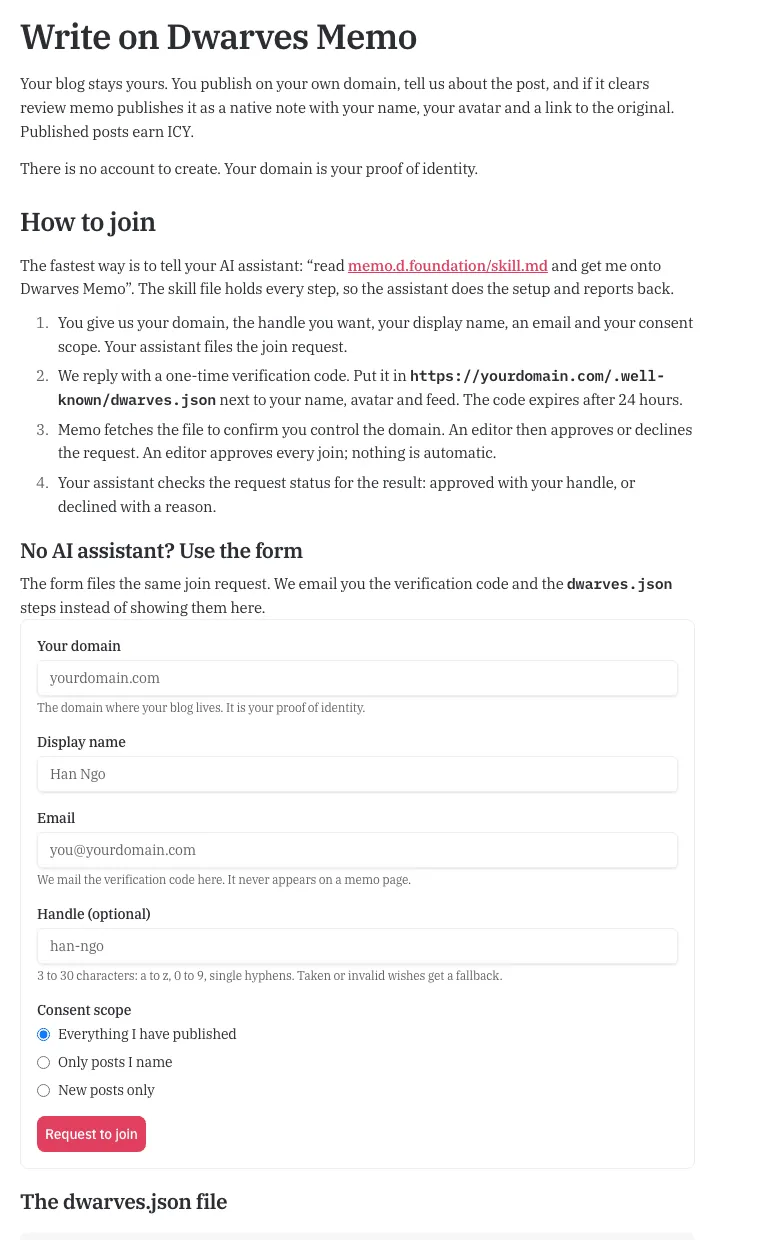
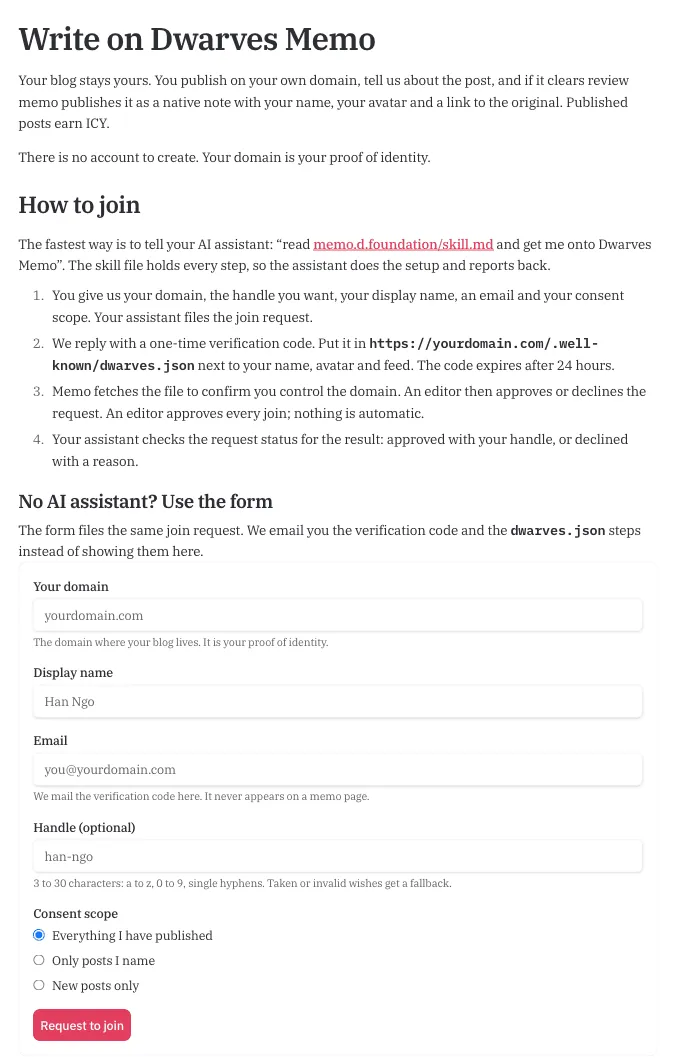
docs(reports): refresh guest-writer captures after live fixes
Re-captured the join page and guest note, added the live Rewards section, dropped the fixed header and word-count notes, and noted that the formatter skips guest notes.

Changed region(s): [[0.0309, 0.0, 0.9574, 0.9962], [0.4015, 0.7472, 0.6485, 0.8406], [0.3706, 0.7472, 0.4015, 0.7783]]

diff --git a/reports/shipped/memo-guest-writers.md b/reports/shipped/memo-guest-writers.md
@@ -137,7 +137,7 @@ An agent judged the wrong text with full confidence. The only thing between that
 
 ## What a published guest note looks like
 
-When an editor approves, a small publisher step converts the stored HTML to Markdown, builds the frontmatter, and has the Dwarves ops bot commit the note to the memo vault. From that commit on, the guest note ships through the same publish chain as every native note, and it is live about six minutes later.
+When an editor approves, a small publisher step converts the stored HTML to Markdown, builds the frontmatter, and has the Dwarves ops bot commit the note to the memo vault. The converter keeps only the post's `<article>` or `<main>`, so the blog's own header and navigation stay behind. From that commit on, the guest note ships through the same publish chain as every native note, and it is live about six minutes later. The vault's formatting bot skips guest notes, so the body stays as the writer wrote it.
 
 The frontmatter adds the fields only a mirrored post needs, and the sidebar reads them:
 
@@ -159,8 +159,6 @@ _Fig. 7: The live guest note at memo.d.foundation/essays/designing-out-snap-frau
 
 The old guest URL keeps working. A request for `/writers/truonghan.com/designing-out-snap-fraud` answers `301` to `/essays/designing-out-snap-fraud`, through the same redirect map memo uses for every moved note.
 
-The capture also shows what is still rough. The converter carries the blog's own header into the note body, so the writer's name, the site navigation and a second title appear above the post. The stats panel reads 39,703 words for a post its writer describes as about 8,800 words. Both are conversion artifacts to fix before more writers arrive.
-
 On the contributor page, a guest note lists beside the writer's other notes. Here the writer is also a long-time Dwarves contributor, so the domain links to the existing native handle and the guest note appears in that timeline. A writer with no native history gets a contributor page of their own, with a guest badge and the verified domain.
 
 ![](assets/memo-guest-writers-shot-contrib.png)
@@ -180,8 +178,13 @@ Every post memo publishes earns its writer between 5 and 20 ICY, the Dwarves com
 | Audit          | Every set or change records who, when, old value, new value and reason |
 | Featured posts | A filter and a hint, never a multiplier                                |
 | Conversion     | None. The payout carries the ICY amount the editor set                 |
+| Skipping       | 0 ICY, only with a written reason that goes into the audit log         |
 | Monthly cap    | One cap per writer in ICY; the final value is still being set          |
 | Visibility     | No amount appears on any public page or route                          |
+
+![](assets/memo-guest-writers-shot-rewards.png)
+
+_Fig. 9: The Rewards section of the live join page, stating the same rule to writers._
 
 A wallet is optional at join. Rewards accrue whether or not a writer has linked one, and a writer links a wallet later by signing a message with it, so a typed address never counts. An agent may open the wallet page for a writer but never signs. Payouts are manual in this phase: an operator confirms a batch, sends the ICY, and records the transaction. Memo itself never moves a token, and it never shows a wallet address or a transaction hash on a page.
 
@@ -191,7 +194,7 @@ The writer's site stays in charge after publish. Takedowns run once the takedown
 
 ![](assets/memo-guest-writers-fig5-lifecycle.svg)
 
-_Fig. 9: Small edits sync. A material edit goes back to review and updates the same note. A removal deletes the note and puts its path on a gone list, which answers 410._
+_Fig. 10: Small edits sync. A material edit goes back to review and updates the same note. A removal deletes the note and puts its path on a gone list, which answers 410._
 
 | Event                                          | What memo does                                                                       |
 | ---------------------------------------------- | ------------------------------------------------------------------------------------ |
